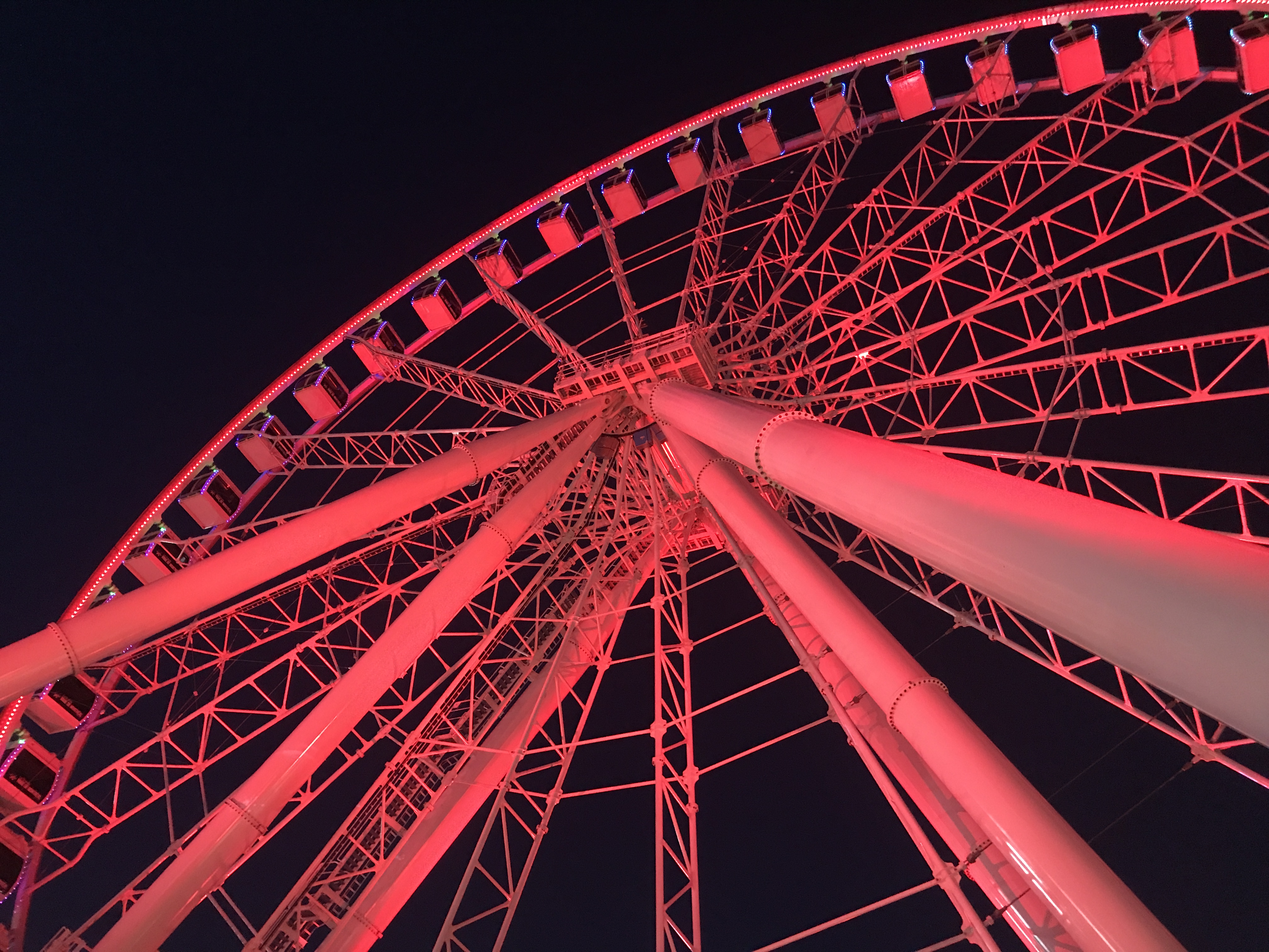
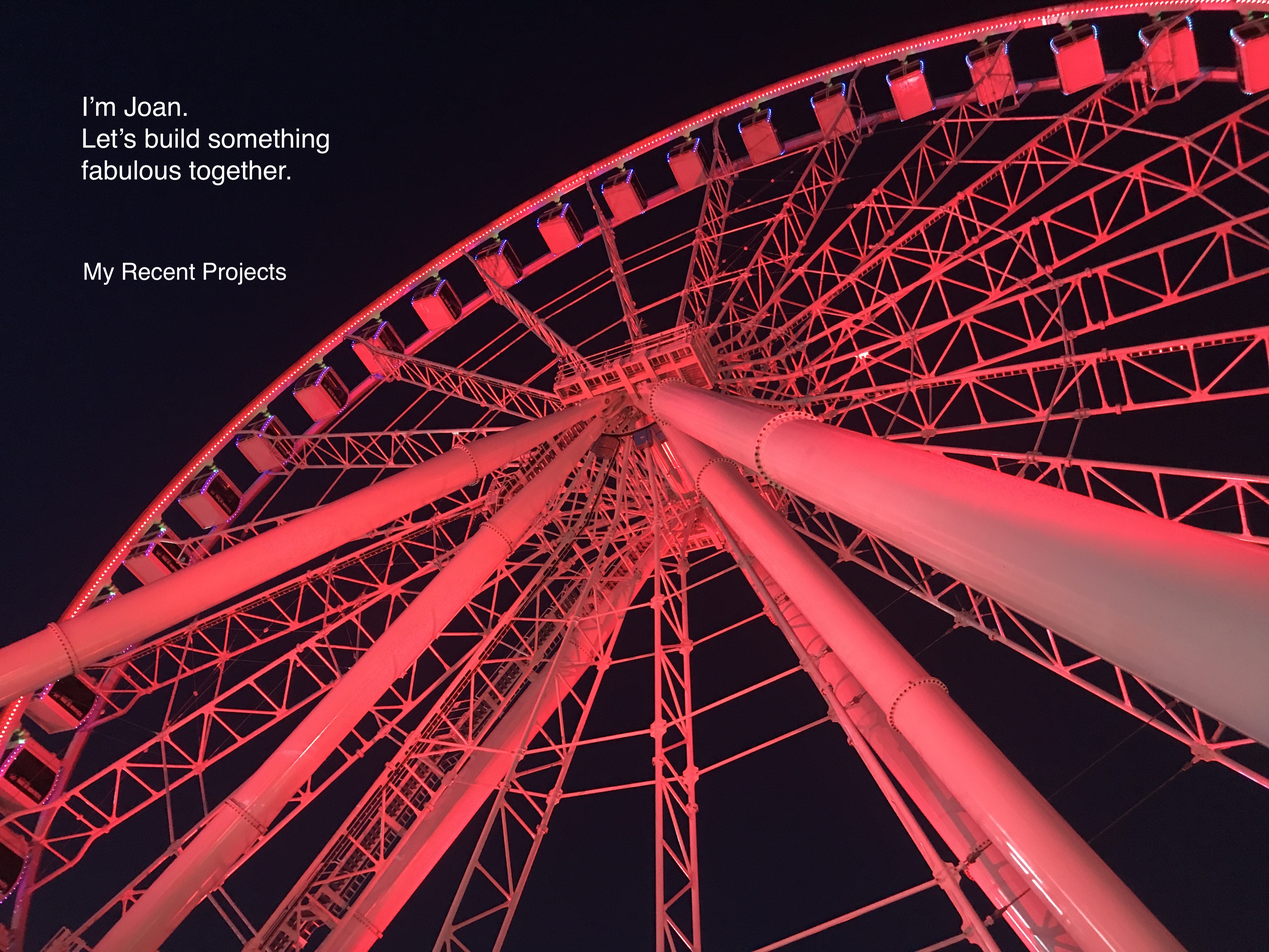
added home page with cover photo text - clicks to projects

Changed region(s): [[0.0625, 0.0933, 0.25, 0.1865], [0.0625, 0.2798, 0.2188, 0.3108]]

diff --git a/src/components/Home.js b/src/components/Home.js
@@ -1,14 +1,14 @@
 import React from 'react';
 import { Image } from 'semantic-ui-react'
 import ferris from './ferris.jpg'
-// import NavBar from './NavBar'
+import { Link } from 'react-router-dom'
 
 
 const Home = () => {
 
   return (
     <>
-      <Image src={ferris} />
+      <Link to='/projects'><Image src={ferris} /></Link>
     </>
   )
 }
